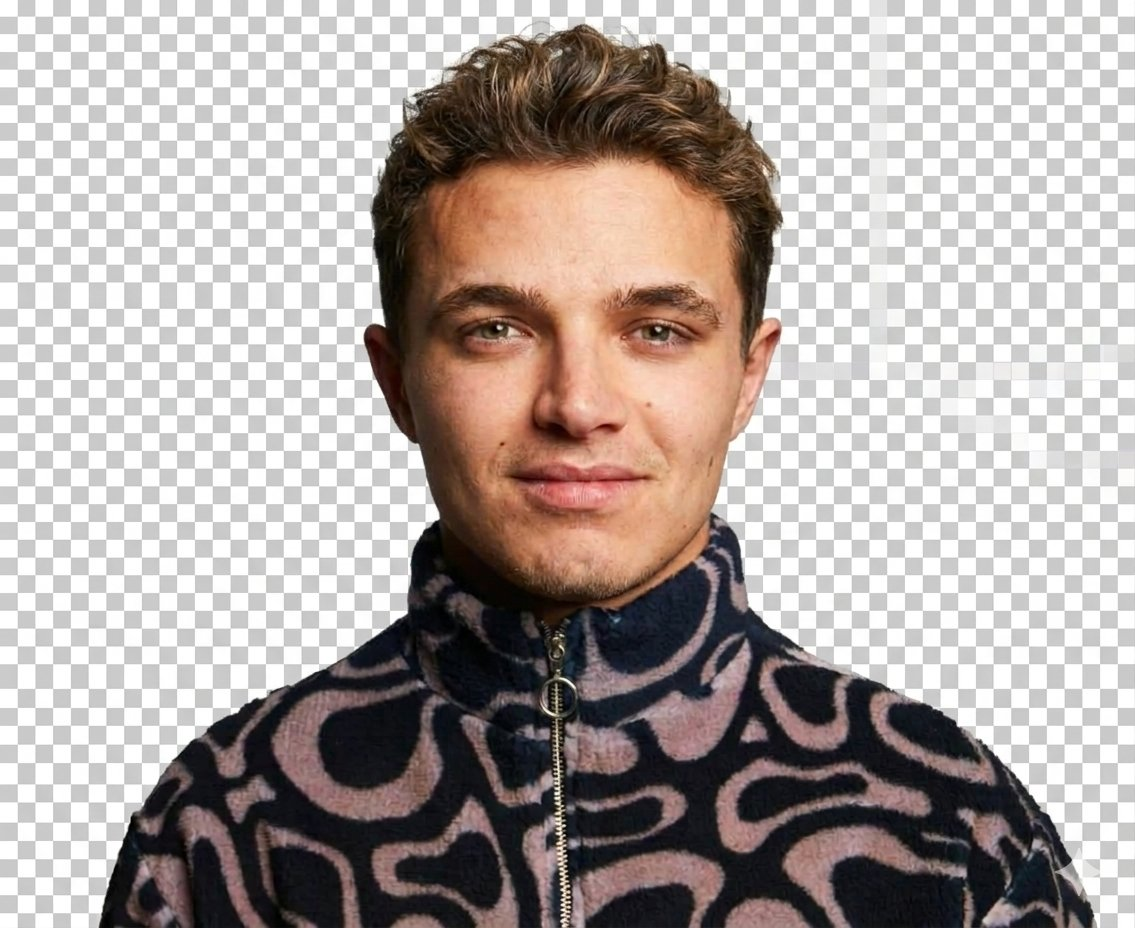
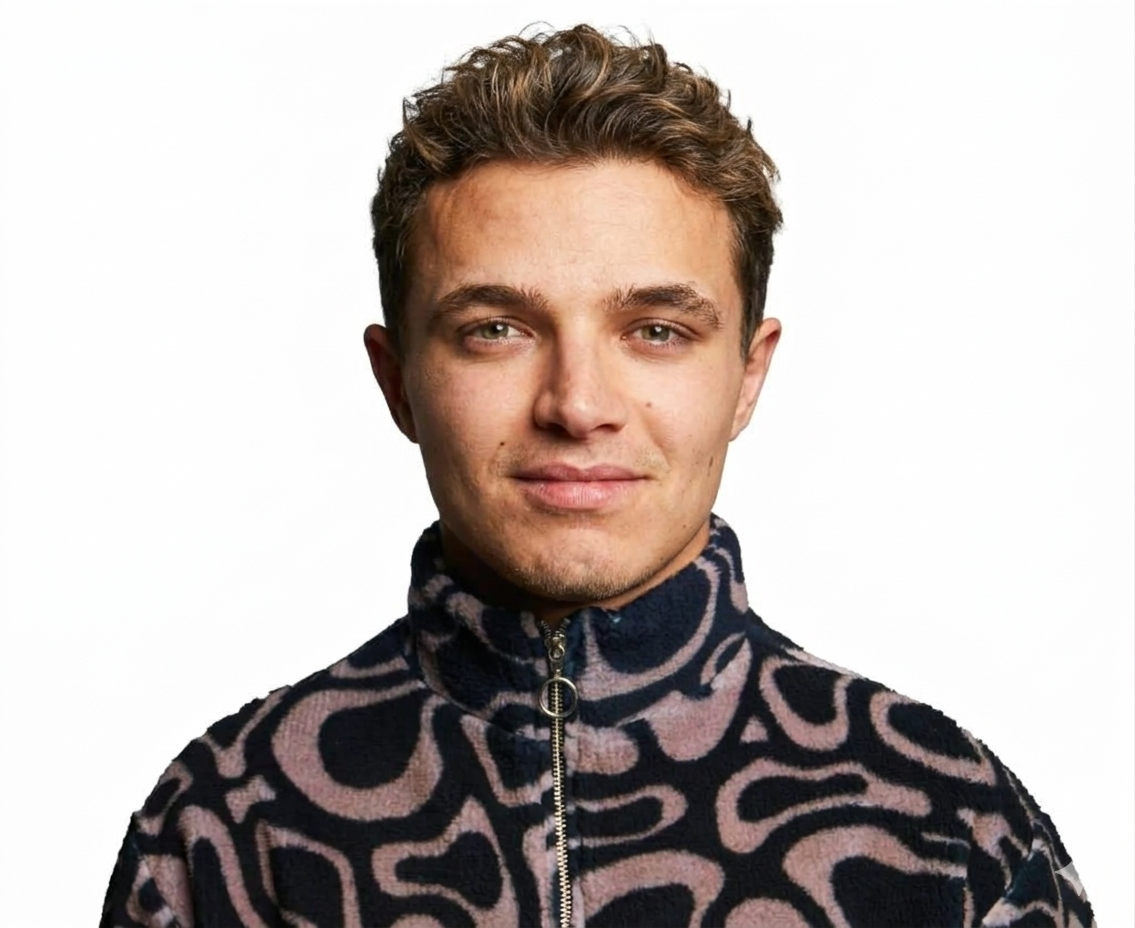
image modified

Changed region(s): [[0.0, 0.0, 1.0, 1.0]]

diff --git a/style.css b/style.css
@@ -1,6 +1,7 @@
 :root {
-  --color-bg: #0b0b0c;
-  --color-vibrant: #4aff00; /* Signature Racing Neon Lime Green */
+  --color-bg: #ffffff;        /* CHANGED: Swapped from pure black to crisp white */
+  --color-text: #0b0b0c;      /* CHANGED: Turned standard texts dark */
+  --color-vibrant: #4aff00;   /* Signature Racing Neon Lime Green stays loud */
   --font-primary: system-ui, -apple-system, BlinkMacSystemFont, 'Segoe UI', Roboto, sans-serif;
 }
 
@@ -13,7 +14,7 @@
 html, body {
   background-color: var(--color-bg);
   font-family: var(--font-primary);
-  color: #ffffff;
+  color: var(--color-text);
   overflow-x: hidden;
   width: 100%;
 }
@@ -47,8 +48,8 @@ html.lenis, html.lenis body {
   color: var(--color-vibrant);
 }
 .navbar .menu-btn {
-  background: #ffffff;
-  color: #000;
+  background: #0b0b0c;        /* CHANGED: Button container flipped to high contrast black */
+  color: #ffffff;             /* CHANGED: Inverted typography label inside button to white */
   padding: 8px 20px;
   border-radius: 20px;
   font-size: 0.85rem;
@@ -75,7 +76,7 @@ html.lenis, html.lenis body {
   height: 100%;
   background-image: url('/bg-grid.svg');
   background-size: 60px 60px;
-  opacity: 0.15;
+  opacity: 0.06;              /* Softened tracking line presentation opacity over white */
   z-index: 1;
 }
 
@@ -112,14 +113,12 @@ html.lenis, html.lenis body {
 
 .text-stroke {
   color: transparent;
-  -webkit-text-stroke: 2px rgba(255, 255, 255, 0.2);
+  -webkit-text-stroke: 2px rgba(11, 11, 12, 0.15); /* CHANGED: Stroke trace uses transparent dark layout ink */
 }
 
 .text-filled {
-  color: var(--color-vibrant);
-  /* Use mix-blend-mode to only clip with character bounds where overlap occurs */
-  mix-blend-mode: overlay;
-  opacity: 0.9;
+  color: #0b0b0c;             /* CHANGED: Made foreground text ink matching the original dark layout */
+  mix-blend-mode: normal;     /* Clean overlay rendering configuration */
 }
 
 /* Interactive Component Canvas Bounds */
@@ -144,7 +143,7 @@ html.lenis, html.lenis body {
 }
 .footer-item span {
   font-size: 0.7rem;
-  color: #666;
+  color: #999;
   letter-spacing: 2px;
 }
 .footer-item p {
@@ -157,7 +156,7 @@ html.lenis, html.lenis body {
 .spacer-section {
   width: 100%;
   height: 100vh;
-  background-color: #121214;
+  background-color: #f7f7f9;  /* CHANGED: Upgraded scroll zone context spacer layout to warm white */
   display: flex;
   align-items: center;
   justify-content: center;
@@ -165,7 +164,7 @@ html.lenis, html.lenis body {
 .spacer-section h2 {
   font-size: 3rem;
   letter-spacing: 4px;
-  color: rgba(255,255,255,0.1);
+  color: rgba(0,0,0,0.1);    /* CHANGED: Dark typography indicator accent overlay */
 }
 
 /* Responsive Structural Breakdown Adaptations */

diff --git a/main.js b/main.js
@@ -91,37 +91,50 @@ function animateEntrance() {
 }
 
 // 4. Frame Rendering Execution Cycle
-// 4. Frame Rendering Execution Cycle (Optimized for Square Aspect Ratios)
+// 4. Frame Rendering Execution Cycle (With Automatic Background Box Masking)
 function renderLoop() {
   const w = canvas.width / (window.devicePixelRatio || 1);
   const h = canvas.height / (window.devicePixelRatio || 1);
 
-  // Clear Frame Buffer
+  // Clear Frame Buffer cleanly
   ctx.clearRect(0, 0, w, h);
 
-  // FORCE A PERFECT 1:1 SQUARE ASPECT BOX WITHIN VIEWPORT
-  const sideLength = Math.min(w, h) * 0.9; // Uses 90% of the smallest screen edge
-
+  // Force a perfect 1:1 square box relative to the viewport
+  const sideLength = Math.min(w, h) * 0.9; 
   const renderX = (w - sideLength) / 2;
   const renderY = (h - sideLength) / 2;
 
-  // Frame Interp Calculations (Tracks brush coordinate lagging delay)
+  // Calculate cursor physics interpolation lagging momentum
   mouse.x = lerp(mouse.x, targetMouse.x, 0.08);
   mouse.y = lerp(mouse.y, targetMouse.y, 0.08);
 
-  // --- LAYER 1: Draw Casual Normal Map Layer ---
+  // ----------------------------------------------------
+  // LAYER 1: Render Base Image (Normal Map)
+  // ----------------------------------------------------
   ctx.save();
   ctx.drawImage(imgCasual, renderX, renderY, sideLength, sideLength);
   ctx.restore();
 
-  // --- LAYER 2: Draw Clipped Reveal Racing Helmet Layer ---
+  // ----------------------------------------------------
+  // LAYER 2: Advanced Compound Reveal Portal (Fixes White Square Box)
+  // ----------------------------------------------------
   ctx.save();
+  
+  // Step A: Create an isolated layer container for the portal reveal animation
   ctx.beginPath();
   ctx.arc(mouse.x, mouse.y, maskRadius.value, 0, Math.PI * 2, false);
-  ctx.clip(); // Restricts drawing to the circular cursor zone
-  
+  ctx.clip(); // Restricts drawing visibility strictly within this moving circle
+
+  // Step B: Render the Helmet Image into this portal path
   ctx.drawImage(imgRacing, renderX, renderY, sideLength, sideLength);
+
+  // Step C: Apply a blending technique that treats solid white (#FFFFFF) pixels 
+  // as fully transparent alpha pixels relative to the underlying context layer.
+  ctx.globalCompositeOperation = 'multiply';
+  
   ctx.restore();
 
+  // Force continuous loops
   requestAnimationFrame(renderLoop);
 }
+
